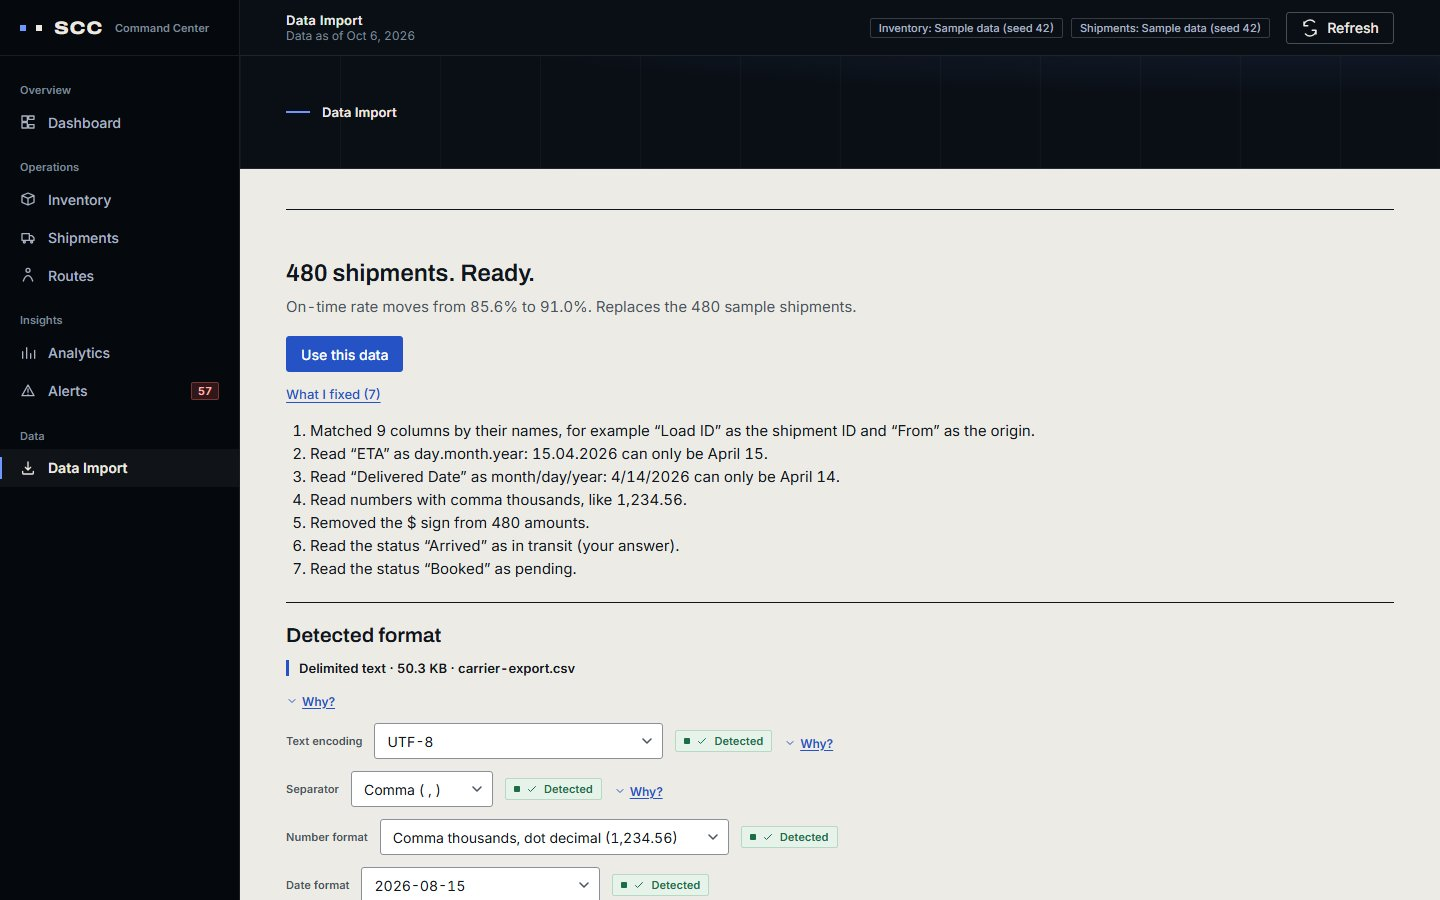
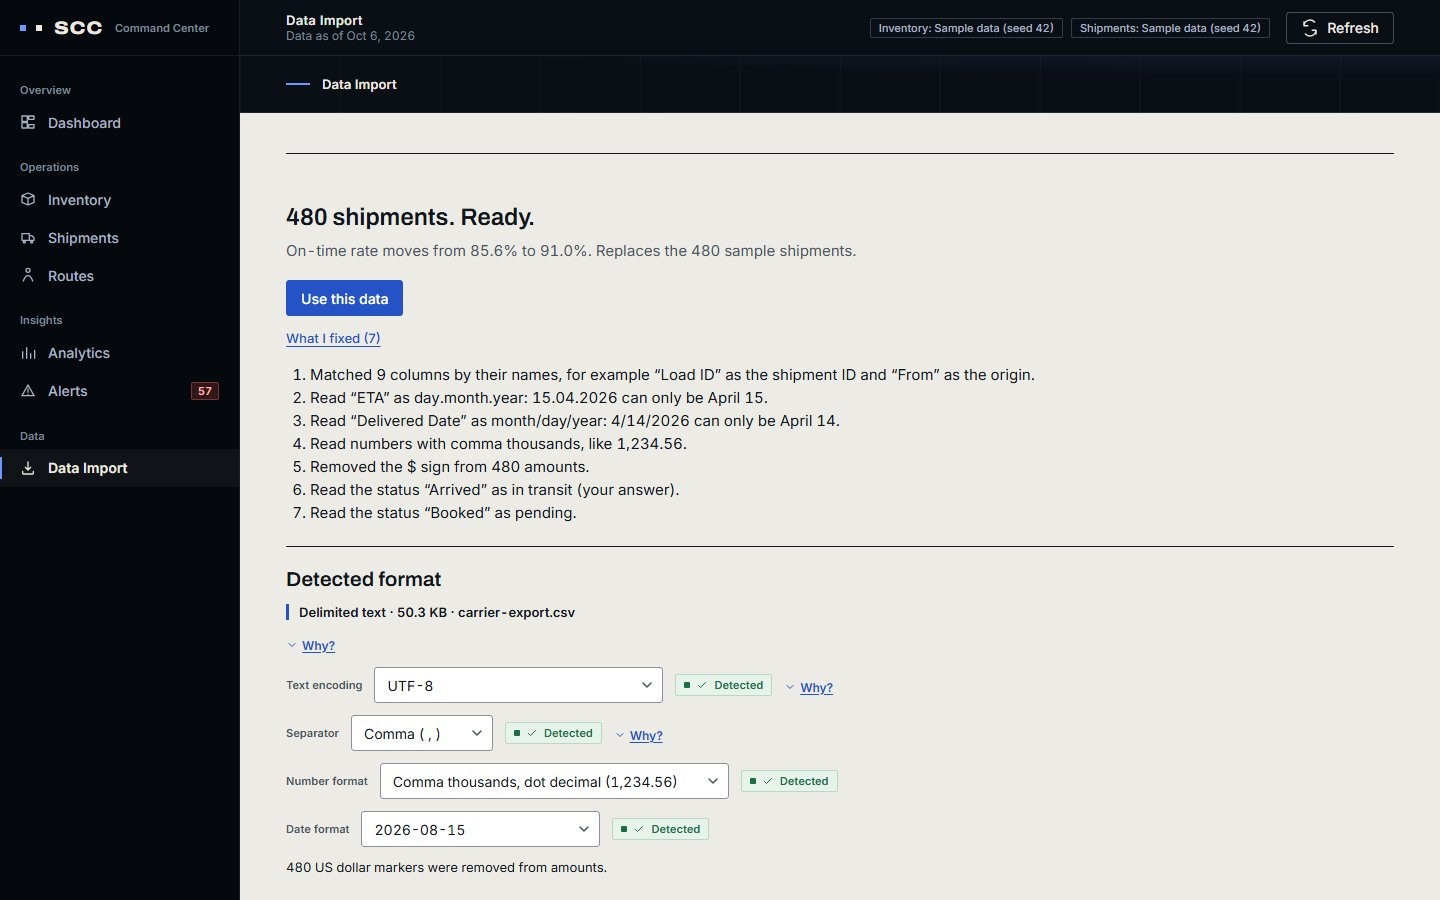
fix(import): neutral answers, Open Dashboard first, slim stage, plainer words
- every answer to a question is the same plain button: none is the main
  button, so SCC does not hint at an answer (test: all answers share one class)
- Done: Open Dashboard is the main action, Undo is the small link; Undone unchanged
- Data Import's dark stage holds only its title, so it is a slim band
  (PageStage variant "slim": ~57px at 1440, ~40px at 390; was 112px)
- "No date in it settles the order." -> "No other date in this column tells us
  which."; "Lines 5, 7, 10 and 4 more." -> "Rows 5, 7, 10 and 4 more."
- README screenshot retaken; test counts 2,178 and 43; docs note the changes

diff --git a/tests/client/import/sevenStates.test.tsx b/tests/client/import/sevenStates.test.tsx
@@ -59,7 +59,7 @@ describe('the seven states of the import card', { timeout: 20_000 }, () => {
     const r = await renderCard();
     await review(r, fileOf(shipments(['04/03/2026', '05/06/2026']), 'dates.csv'));
     expect(heading()).toHaveTextContent('Is 04/03/2026 April 3 or March 4?');
-    expect(line()).toBe('Column “ship_date”. No date in it settles the order.');
+    expect(line()).toBe('Column “ship_date”. No other date in this column tells us which.');
     expect(section()).toHaveClass('ingest-state--warning');
     const answers = within(screen.getByRole('group', { name: 'Answers' })).getAllByRole('button');
     expect(answers.map((b) => b.textContent)).toEqual(['April 3', 'March 4']);
@@ -91,7 +91,7 @@ describe('the seven states of the import card', { timeout: 20_000 }, () => {
     const r = await renderCard();
     await review(r, buildSampleFile('errors', TODAY));
     expect(heading()).toHaveTextContent('7 rows need fixing.');
-    expect(line()).toBe('Lines 5, 7, 10 and 4 more. Nothing was imported.');
+    expect(line()).toBe('Rows 5, 7, 10 and 4 more. Nothing was imported.');
     expect(section()).toHaveClass('ingest-state--critical');
     expect(screen.getByText('See every problem')).toBeInTheDocument();
     await r.user.click(screen.getByRole('button', { name: 'Download the 7 rows to fix' }));
@@ -128,7 +128,21 @@ describe('the seven states of the import card', { timeout: 20_000 }, () => {
     expect(r.importCsv).not.toHaveBeenCalled();
   });
 
-  it('7 done, then Undo: "Done. Dashboard updated." with Undo and Open Dashboard; Undo brings the data back', async () => {
+  it('3 a question: every answer button has the same class and none is the main button, for a date and for a status', async () => {
+    const r = await renderCard();
+    const classesOfAnswers = (): string[] => within(screen.getByRole('group', { name: 'Answers' })).getAllByRole('button').map((b) => b.className);
+    await review(r, fileOf(shipments(['04/03/2026', '05/06/2026']), 'dates.csv'));
+    expect(heading()).toHaveTextContent(/^Is 04\/03\/2026 /);
+    expect(new Set(classesOfAnswers())).toEqual(new Set(['button']));
+    await review(r, fileOf(shipments(['2026-04-03', '2026-05-06']).replace(',delivered,2026-04-03', ',Arrived,2026-04-03'), 'status.csv'));
+    expect(heading()).toHaveTextContent('What does “Arrived” mean?');
+    const classes = classesOfAnswers();
+    expect(classes).toHaveLength(4);
+    expect(new Set(classes)).toEqual(new Set(['button']));
+    expect(section().querySelector('.button--primary')).toBeNull();
+  });
+
+  it('7 done, then Undo: "Done. Dashboard updated." with Open Dashboard as the main action and Undo as the link; Undo brings the data back', async () => {
     const importCsv = vi.fn().mockResolvedValue({ ...SUCCESS, undo: { version: 9 } });
     const undoImport = vi.fn().mockResolvedValue(undefined);
     const r = await renderCard({ api: { importCsv, undoImport } });
@@ -137,8 +151,11 @@ describe('the seven states of the import card', { timeout: 20_000 }, () => {
     expect(await screen.findByRole('heading', { name: 'Done. Dashboard updated.' })).toBe(heading());
     expect(line()).toBe('12 shipments from alder_freight.csv.');
     await waitFor(() => expect(document.activeElement).toBe(heading()));
-    expect(within(section()).getByRole('button', { name: 'Undo' })).toHaveClass('button--primary');
+    // Open Dashboard is the main action and Undo the small link (Undo used to be the main button)
+    expect(within(section()).getByRole('link', { name: 'Open Dashboard' })).toHaveClass('button', 'button--primary');
     expect(within(section()).getByRole('link', { name: 'Open Dashboard' })).toHaveAttribute('href', '#/');
+    expect(within(section()).getByRole('button', { name: 'Undo' })).toHaveClass('ingest-link');
+    expect(section().querySelectorAll('.button--primary')).toHaveLength(1);
     expect(document.getElementById('ingest-details')).toBeNull();
     await r.user.click(screen.getByRole('button', { name: 'Undo' }));
     expect(await screen.findByRole('heading', { name: 'Undone. The data is back as it was.' })).toBe(heading());

diff --git a/tests/client/import/demoFlow.test.tsx b/tests/client/import/demoFlow.test.tsx
@@ -72,7 +72,8 @@ describe('demo flow: No file? Try one.', { timeout: 30_000 }, () => {
     expect(screen.getByText(`${ARRIVED} shipments have this status. SCC does not guess.`)).toBeInTheDocument();
     const answers = within(screen.getByRole('group', { name: 'Answers' })).getAllByRole('button');
     expect(answers.map((b) => b.textContent)).toEqual(['In transit', 'Delivered', 'Pending', 'Cancelled']);
-    expect(answers[0]).toHaveClass('button--primary');
+    // every answer looks the same: none is the main button, so SCC does not hint at one (it used to make the first one primary)
+    expect(new Set(answers.map((b) => b.className))).toEqual(new Set(['button']));
     expect(state().closest('section')).toHaveClass('ingest-state--warning');
     expect(document.activeElement).toBe(state());
     await user.click(answers[0] as HTMLElement);
@@ -93,8 +94,10 @@ describe('demo flow: No file? Try one.', { timeout: 30_000 }, () => {
     expect(importCsv).toHaveBeenCalledTimes(1);
     expect(importCsv.mock.calls[0]?.[0]).toBe('shipments');
     expect((importCsv.mock.calls[0]?.[1] as File).name).toBe(CARRIER_EXPORT_NAME);
-    expect(screen.getByRole('button', { name: 'Undo' })).toBeInTheDocument();
+    // the main action is Open Dashboard; Undo is the small link (it used to be the main button)
+    expect(screen.getByRole('button', { name: 'Undo' })).toHaveClass('ingest-link');
     expect(screen.getByRole('link', { name: 'Open Dashboard' })).toHaveAttribute('href', '#/');
+    expect(screen.getByRole('link', { name: 'Open Dashboard' })).toHaveClass('button', 'button--primary');
     await waitFor(() => expect(document.activeElement).toBe(state()));
   });
 
@@ -142,7 +145,7 @@ describe('demo flow: No file? Try one.', { timeout: 30_000 }, () => {
     const heading = await screen.findByRole('heading', { name: '7 rows need fixing.' });
     await settled();
     expect(heading.closest('section')).toHaveClass('ingest-state--critical');
-    expect(screen.getByText('Lines 5, 7, 10 and 4 more. Nothing was imported.')).toBeInTheDocument();
+    expect(screen.getByText('Rows 5, 7, 10 and 4 more. Nothing was imported.')).toBeInTheDocument(); // "Rows" (was "Lines")
     expect(screen.getByRole('button', { name: 'Download the 7 rows to fix' })).toBeInTheDocument();
     expect(screen.queryByRole('button', { name: 'Use this data' })).not.toBeInTheDocument();
     // behind "See every problem": the problems grouped by column, each with a short fix, and the import locked

diff --git a/src/client/components/import/UniversalImportCard.tsx b/src/client/components/import/UniversalImportCard.tsx
@@ -277,9 +277,10 @@ export function UniversalImportCard({ incoming = null, runner, more }: Universal
             Open the details
           </button>
         ) : (
+          // Every answer looks the same: SCC does not hint which one is right.
           <div className="ingest-answers" role="group" aria-label="Answers">
             {view.question.answers.map((a, i) => (
-              <button key={`${i}|${a.label}`} type="button" className={`button${i === 0 ? ' button--primary' : ''}`} disabled={busy} onClick={() => answer(a.answer)}>
+              <button key={`${i}|${a.label}`} type="button" className="button" disabled={busy} onClick={() => answer(a.answer)}>
                 {a.label}
               </button>
             ))}
@@ -325,20 +326,21 @@ export function UniversalImportCard({ incoming = null, runner, more }: Universal
       const failed = result?.tone === 'critical';
       sentence = failed ? splitMessage(result?.title ?? '').sentence : 'Done. Dashboard updated.';
       line = failed ? splitMessage(result?.title ?? '').rest : (result?.title ?? '');
+      // The main action is to look at the result; Undo (or, once it cannot be undone, another file) is the small link.
       actions = (
         <>
+          <a className="button button--primary" href={buildHash('dashboard')}>
+            Open Dashboard
+          </a>
           {result?.imported?.version !== undefined ? (
-            <button type="button" className="button button--primary" disabled={flow.undoing} aria-busy={flow.undoing} onClick={() => void flow.undo()}>
+            <button type="button" className="ingest-link" disabled={flow.undoing} aria-busy={flow.undoing} onClick={() => void flow.undo()}>
               {flow.undoing ? 'Undoing…' : 'Undo'}
             </button>
           ) : (
-            <button type="button" className="button button--primary" onClick={chooseAnother}>
+            <button type="button" className="ingest-link" onClick={chooseAnother}>
               Choose a file
             </button>
           )}
-          <a className="ingest-link" href={buildHash('dashboard')}>
-            Open Dashboard
-          </a>
         </>
       );
       break;

diff --git a/src/client/ingest/importStory.ts b/src/client/ingest/importStory.ts
@@ -103,7 +103,7 @@ function dateQuestion(preview: PreviewModel, field: string | undefined): Questio
     });
     return {
       sentence: `Is ${column.example} ${answers.map((a) => a.label).join(' or ')}?`,
-      line: `Column ${quote(column.header)}. No date in it settles the order.`,
+      line: `Column ${quote(column.header)}. No other date in this column tells us which.`,
       answers
     };
   }
@@ -331,6 +331,7 @@ export function errorsText(preview: PreviewModel): { sentence: string; line: str
   const shown = byLine ? lineNumbers : wheres;
   // "5, 7 and 10" or, past three, "5, 7, 10 and 4 more"
   const list = shown.length <= 1 ? (shown[0] ?? '') : shown.length <= 3 ? `${shown.slice(0, -1).join(', ')} and ${shown[shown.length - 1]}` : `${shown.slice(0, 3).join(', ')} and ${shown.length - 3} more`;
-  const named = byLine ? `${lineNumbers.length === 1 ? 'Line' : 'Lines'} ${list}` : capitalized(list);
+  // A file's line number is its row number in a spreadsheet (the header is row 1), so the user reads "Rows".
+  const named = byLine ? `${lineNumbers.length === 1 ? 'Row' : 'Rows'} ${list}` : capitalized(list);
   return { sentence, line: `${named}. Nothing was imported.` };
 }

diff --git a/tests/tester/v16.ui.browser.test.ts b/tests/tester/v16.ui.browser.test.ts
@@ -691,6 +691,20 @@ describe('V1.6 redesign (real Chromium)', () => {
     }
   });
 
+  // G1 fix: the stage of Data Import holds only its title, so it is a slim band (it was 112px tall and empty at 1440).
+  it('data import: the dark stage is a slim band holding only the title, from phone to desktop', async () => {
+    for (const w of [390, 768, 1100, 1440]) {
+      const { ctx, page } = await open(w, 'import', { reducedMotion: 'reduce' });
+      const stage = await page.evaluate(() => {
+        const s = document.querySelector('.page-stage') as HTMLElement;
+        return { height: s.getBoundingClientRect().height, text: s.innerText.trim() };
+      });
+      await ctx.close();
+      expect(stage.text, `${w}`).toBe('Data Import');
+      expect(stage.height, `${w}`).toBeLessThanOrEqual(64);
+    }
+  });
+
   // V16-BUG-1 (pre-existing since V1.5), fixed in V1.6 fix round 1 (S-1).
   it('V16-BUG-1: with the mobile drawer closed, keyboard Tab must not land on off-screen sidebar links', async () => {
     const { ctx, page } = await open(390, '');

diff --git a/tests/client/pages/ImportPage.design.test.tsx b/tests/client/pages/ImportPage.design.test.tsx
@@ -24,6 +24,14 @@ describe('ImportPage: presentation', () => {
     expect(screen.getByText('Drop your file')).toBeInTheDocument();
   });
 
+  it('keeps the dark stage a slim band: the title only, no stage body and no figures', async () => {
+    await renderWithData(<ImportPage />, { snapshot: makeSnapshot([], [], { today: TODAY }) });
+    const stage = document.querySelector('.page-stage') as HTMLElement;
+    expect(stage).toHaveClass('page-stage--slim');
+    expect(stage.querySelector('.page-stage__body')).toBeNull();
+    expect(stage.textContent).toBe('Data Import');
+  });
+
   it('has no step bar: the waiting state is one sentence, one line, one main button and one small link', async () => {
     await renderWithData(<ImportPage />, { snapshot: makeSnapshot([], [], { today: TODAY }) });
     expect(screen.queryByRole('list', { name: 'How importing works' })).toBeNull();

diff --git a/src/client/styles/pages.css b/src/client/styles/pages.css
@@ -29,6 +29,17 @@
   }
 }
 
+/* Slim: a stage that holds only its title (Data Import), so it stays a thin band. */
+.page-stage.page-stage--slim {
+  padding: var(--space-5) var(--gutter);
+}
+
+@media (max-width: 640px) {
+  .page-stage.page-stage--slim {
+    padding: var(--space-4) var(--gutter);
+  }
+}
+
 .page-stage__inner {
   max-width: var(--content-max);
   margin-inline: auto;
@@ -671,6 +682,11 @@
   align-items: center;
   gap: var(--space-3) var(--space-6);
   margin: var(--space-3) 0 0;
+}
+
+/* "Open Dashboard" is a link that looks like the main button. */
+.ingest-state__actions a.button {
+  text-decoration: none;
 }
 
 .ingest-answers {

diff --git a/tests/tester/demoImport.browser.test.ts b/tests/tester/demoImport.browser.test.ts
@@ -125,7 +125,7 @@ describe('demo import (real Chromium, real server)', () => {
     await openMore(page);
     await page.getByRole('button', { name: 'Try a file with errors' }).click();
     await heading(page, '7 rows need fixing.');
-    expect(await page.getByText('Lines 5, 7, 10 and 4 more. Nothing was imported.').count()).toBe(1);
+    expect(await page.getByText('Rows 5, 7, 10 and 4 more. Nothing was imported.').count()).toBe(1); // "Rows" (was "Lines")
     const colors = await page.evaluate(() => {
       const probe = document.createElement('div');
       probe.style.color = 'var(--critical)';

diff --git a/tests/client/import/importStory.test.ts b/tests/client/import/importStory.test.ts
@@ -104,6 +104,6 @@ describe('what SCC fixed, the effect, the problems', () => {
     expect(csv[0]).toBe('row,column,problem');
     expect(csv).toHaveLength(3);
     expect(csv[1]).toMatch(/^line 2,shipping_cost,/);
-    expect(errorsText(a.preview)).toEqual({ sentence: '2 rows have problems in the shipping cost.', line: 'Lines 2 and 3. Nothing was imported.' });
+    expect(errorsText(a.preview)).toEqual({ sentence: '2 rows have problems in the shipping cost.', line: 'Rows 2 and 3. Nothing was imported.' }); // "Rows" (was "Lines"): a line number is the spreadsheet row
   });
 });

diff --git a/src/client/components/layout/PageStage.tsx b/src/client/components/layout/PageStage.tsx
@@ -11,7 +11,8 @@ export interface PageStageProps {
   actions?: ReactNode;
   /** Stage content: hero figures, map, briefing. */
   children?: ReactNode;
-  variant?: 'compact' | 'full';
+  /** `slim`: a stage with nothing but its title (Data Import), kept to a thin band. */
+  variant?: 'compact' | 'full' | 'slim';
 }
 
 /** The dark page stage: h1 eyebrow, optional display headline, and optional stage content. */

diff --git a/src/client/pages/ImportPage.tsx b/src/client/pages/ImportPage.tsx
@@ -455,7 +455,7 @@ export function ImportPage() {
 
   return (
     <div className="page">
-      <PageStage title="Data Import" />
+      <PageStage title="Data Import" variant="slim" />
       <div className="page-floor import-floor">
         <UniversalImportCard incoming={incoming} more={more} />
       </div>

diff --git a/README.md b/README.md
@@ -68,9 +68,9 @@ purpose so that every alert type appears. Its dates are counted from today, so i
 
 ## Quality
 
-- **2,176 automated tests** (Vitest) cover the calculations, the import pipeline, the server and every page.
+- **2,178 automated tests** (Vitest) cover the calculations, the import pipeline, the server and every page.
   9 of them compare against the private development history and are skipped in this repository.
-- **42 browser tests** drive real Chromium against the built app. They check that no page scrolls sideways
+- **43 browser tests** drive real Chromium against the built app. They check that no page scrolls sideways
   from 360px to 1440px wide, that the dashboard text meets WCAG AA contrast, that focus moves to the page heading
   after each navigation, and that reduced-motion settings are respected. Playwright is not a project dependency;
   see Run locally.
@@ -212,9 +212,9 @@ xuất hiện. Ngày tháng được tính từ hôm nay nên dữ liệu luôn 
 
 ## Chất lượng
 
-- **2.176 test tự động** (Vitest) cho phần tính toán, quy trình nhập, server và từng trang. 9 test trong số đó so
+- **2.178 test tự động** (Vitest) cho phần tính toán, quy trình nhập, server và từng trang. 9 test trong số đó so
   với lịch sử phát triển riêng nên được bỏ qua trong repo này.
-- **42 test trình duyệt** chạy Chromium thật trên bản đã build. Các test kiểm tra không trang nào cuộn ngang từ
+- **43 test trình duyệt** chạy Chromium thật trên bản đã build. Các test kiểm tra không trang nào cuộn ngang từ
   360px đến 1440px, chữ trên dashboard đạt độ tương phản WCAG AA, focus chuyển tới tiêu đề trang sau mỗi lần
   chuyển trang, và tôn trọng thiết lập giảm chuyển động. Playwright không nằm trong dependency của dự án; xem phần
   Chạy trên máy.
